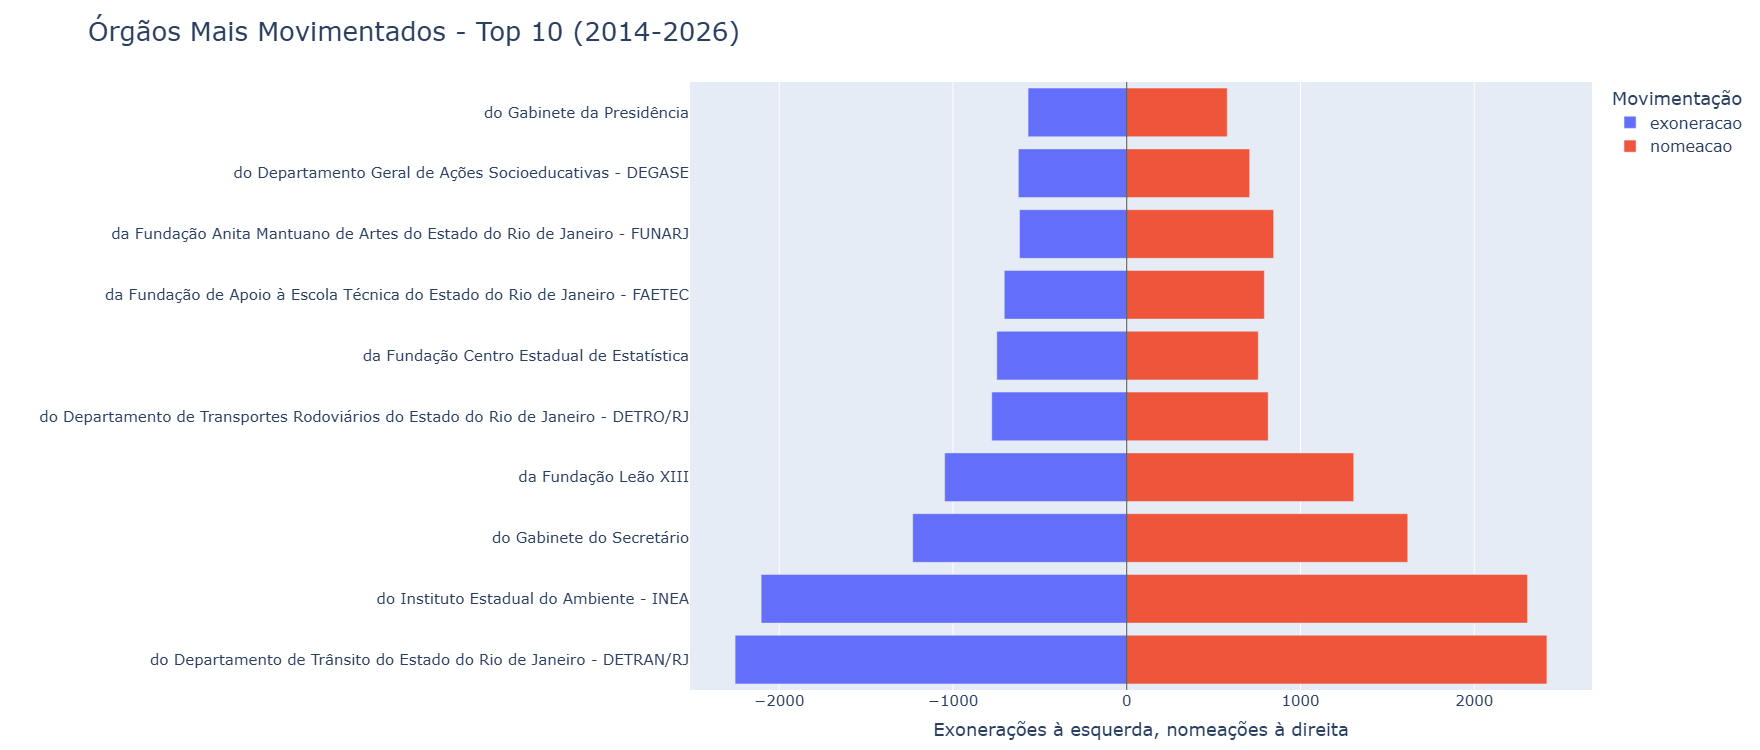
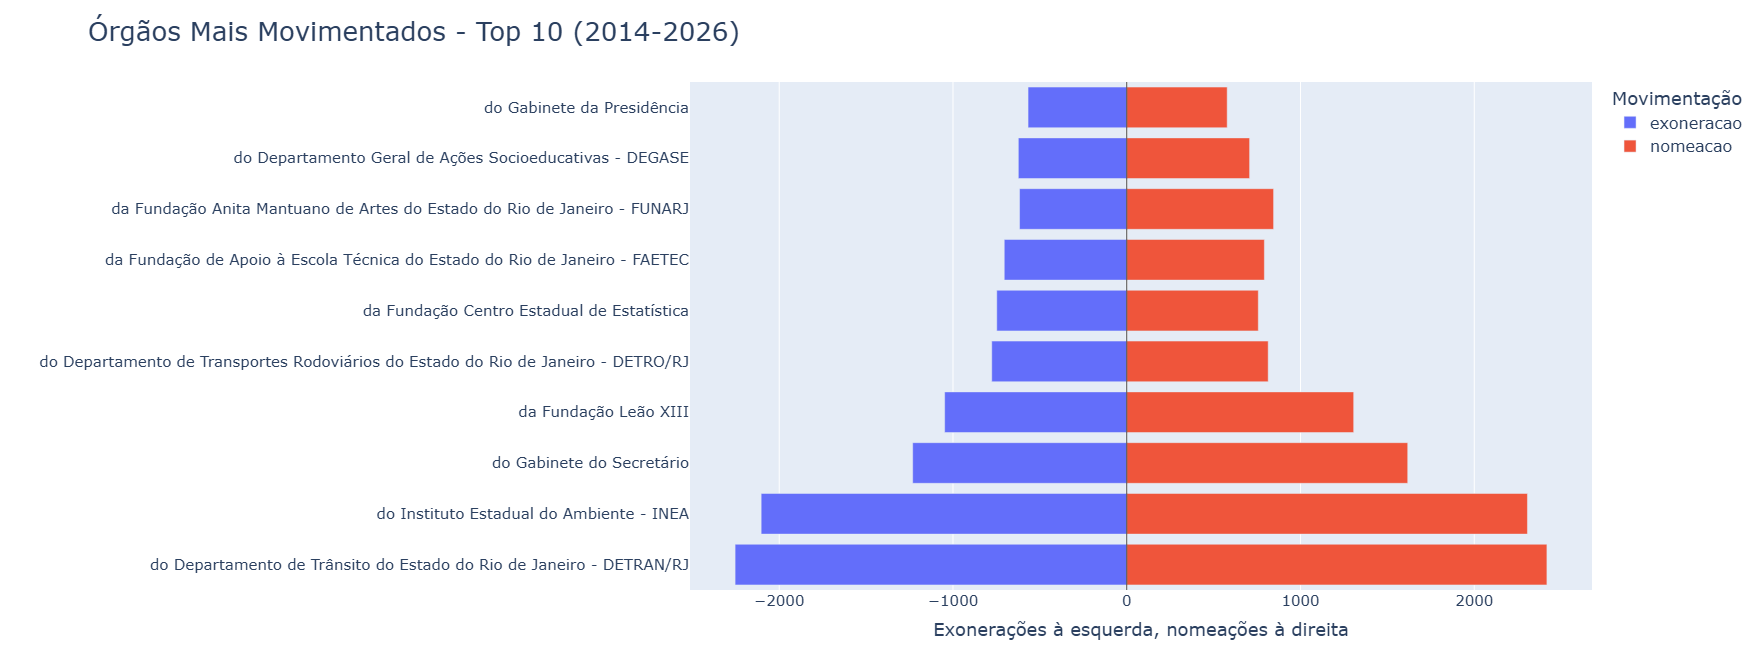
att

diff --git a/docs/gerar_imagens_readme.py b/docs/gerar_imagens_readme.py
@@ -40,7 +40,7 @@ IMAGE_SPECS = {
             dashboard.periodo_movimentacoes(data),
         ),
         "width": 1760,
-        "height": 750,
+        "height": 650,
     },
 }
 
